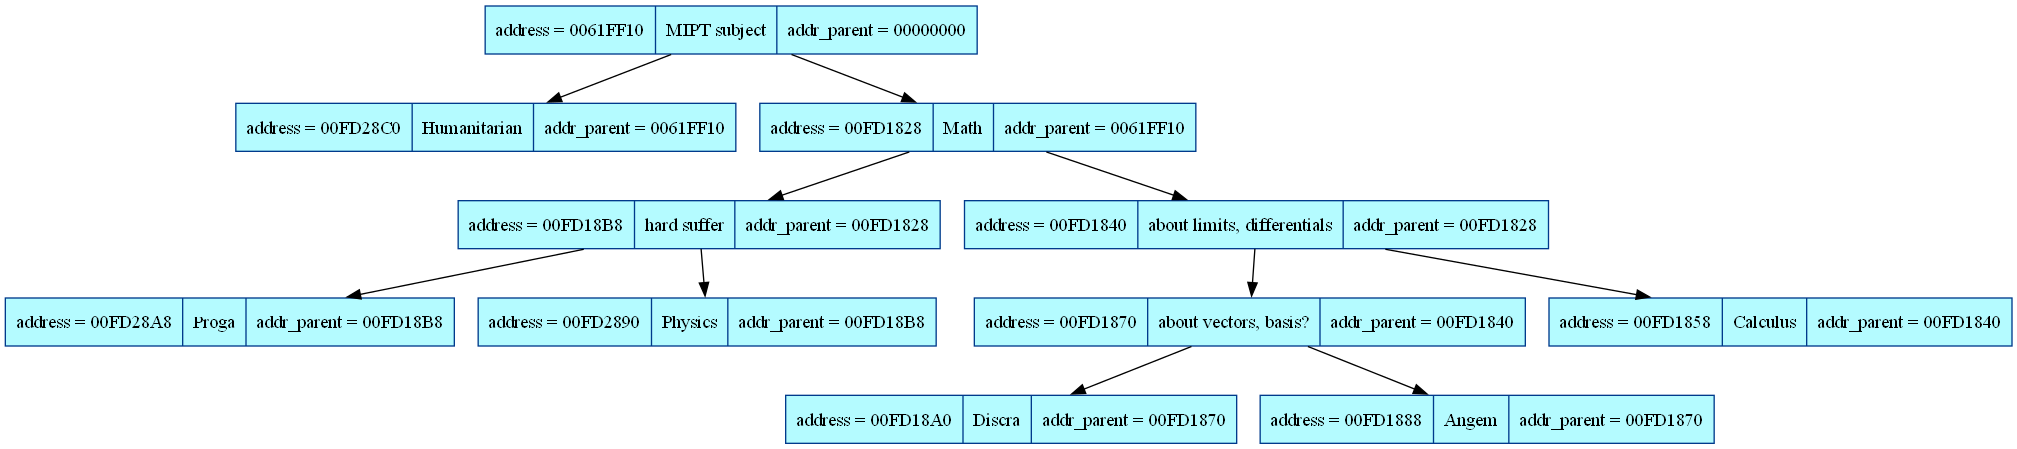
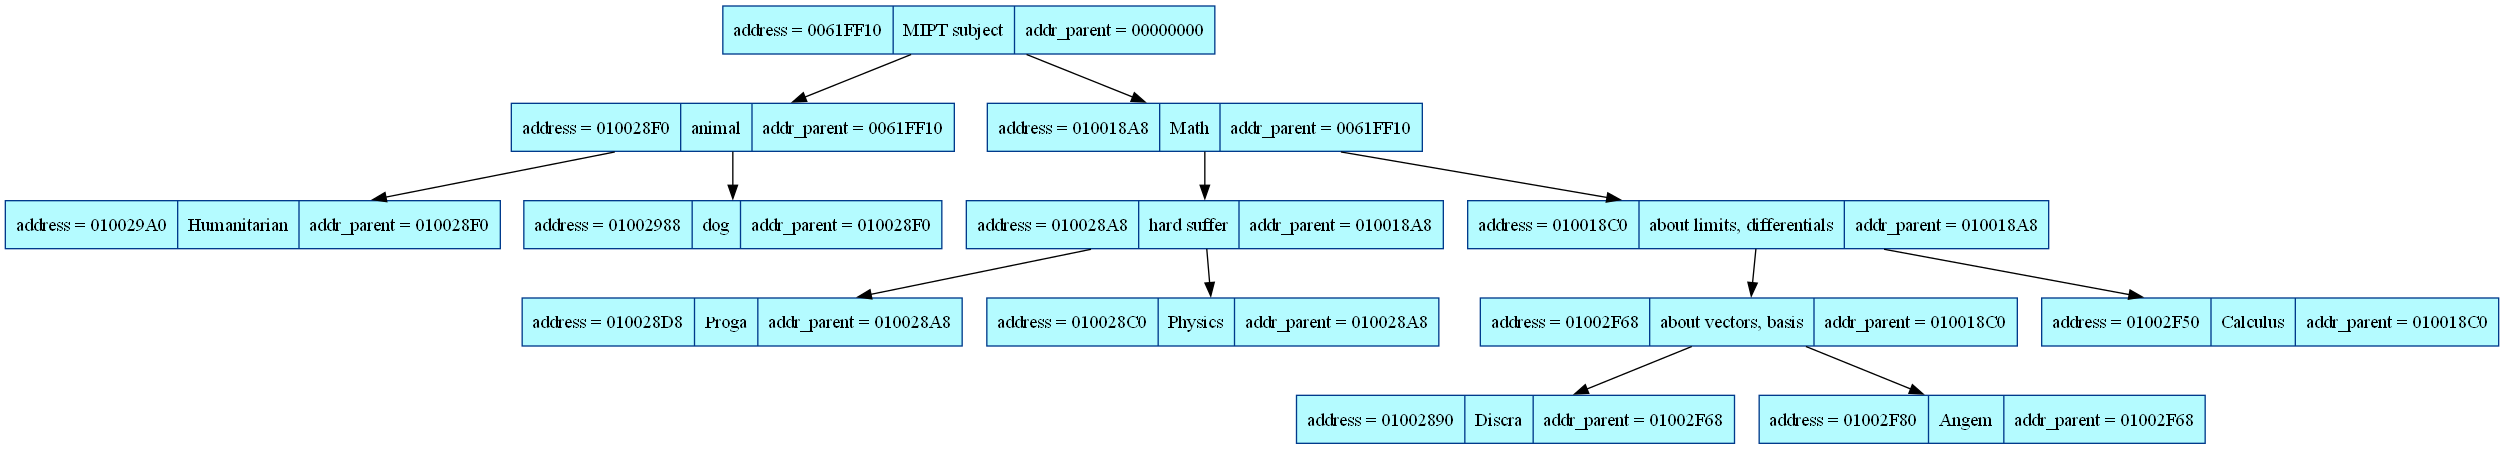
insert

diff --git a/source/akinator.cpp b/source/akinator.cpp
@@ -13,7 +13,7 @@ const int size_of_node_array = 15;
 const int max_size = 50;
 const int size_of_answer = 5;
 
-void guess(Tree *my_tree)
+int guess(Tree *my_tree)
 {
     assert(my_tree);
     Node *current_node = my_tree->root_tree;
@@ -40,14 +40,81 @@ void guess(Tree *my_tree)
                 current_node = current_node->left;
             else
             {
-                printf ("Sorry, we don't know ");
-                break;
+                printf ("Sorry, we don't know, do you what to broad my base ?\n");
+                scanf("%s", answer);
+                if(strcmp(answer, "YES") == 0)
+                {
+                    if (insert_node(current_node) != TREE_SUCCESS)
+                        return TREE_ALLOCATION_MEMORY_ERROR;
+
+                    return TREE_SUCCESS;
+                }
+                else
+                    break;
             }
 
         }
     }
 
-    return;
+    return TREE_SUCCESS;
+}
+
+int insert_node (Node *node)
+{
+
+    assert(node);
+
+    char *item = (char*)calloc(max_size, sizeof(char));
+    if (!item)
+    {
+        printf ("Allocation Error\n");
+        return TREE_ALLOCATION_MEMORY_ERROR;
+    }
+    printf ("What did you think of ?\n");
+    scanf ("%s", item);
+
+    char *dif = (char*)calloc(max_size, sizeof(char));
+    if (!dif)
+    {
+        printf ("Allocation Error\n");
+        return TREE_ALLOCATION_MEMORY_ERROR;
+    }
+
+
+    printf ("What feature does %s have, unlike %s ?\n", item, node->data);
+    scanf("%s", dif);
+
+    //fgets(item, max_size, stdin);
+    // fgets(dif, max_size, stdin);
+
+    Node *right_leaf = (Node *)calloc (1, sizeof(Node));
+
+    if (!right_leaf)
+    {
+        printf ("Allocation Error\n");
+        return TREE_ALLOCATION_MEMORY_ERROR;
+    }
+
+
+    Node *left_leaf = (Node *)calloc (1, sizeof(Node));
+
+    if (!left_leaf)
+    {
+        printf ("Allocation Error\n");
+        return TREE_ALLOCATION_MEMORY_ERROR;
+    }
+
+    node->right = right_leaf;
+    right_leaf->data = item;
+    right_leaf->parent = node;
+
+    node->left = left_leaf;
+    left_leaf->data = node->data;
+    left_leaf->parent = node;
+
+    node->data = dif;
+
+    return TREE_SUCCESS;
 }
 
 bool is_leaf(Node *node)

diff --git a/source/tree.cpp b/source/tree.cpp
@@ -90,36 +90,7 @@ int get_size_of_file (const char *name_of_file)
     return buffer.st_size;
 }
 
-void insert_node (Node *node, info_t value)
-{
 
-    assert(node);
-
-    if (value < node->data)
-    {
-        if (node->left == NULL)
-        {
-            struct Node *new_node = (Node*)calloc (1, sizeof(struct Node));
-            node->left = new_node;
-            new_node->data = value;
-        }
-        else
-            insert_node(node->left, value);
-    }
-    else
-    {
-        if (node->right == NULL)
-        {
-            struct Node *new_node = (Node *) calloc (1, sizeof(Node));
-            node->right = new_node;
-
-            new_node->data = value;
-        }
-        else
-            insert_node(node->right, value);
-    }
-
-}
 
 void print_tree (Node *node)
 {

diff --git a/source/main.cpp b/source/main.cpp
@@ -28,21 +28,30 @@ int main(const int argc, const char* argv[])
 
     import_to_tree (&my_tree, &node);
 
-    dump (&node, my_tree.pfile_dump);
+    //dump (&node, my_tree.pfile_dump);
 
     process_args(argc, argv, &flags);
 
     if (flags.is_define)
     {
         if (define (&my_tree) != TREE_SUCCESS)
+        {
+            tree_dtor(&my_tree);
             assert(0 && "Define error");
+        }
     }
 
     if (flags.is_guess)
     {
-        guess(&my_tree);
+        if (guess(&my_tree) != TREE_SUCCESS)
+        {
+            tree_dtor(&my_tree);
+            printf("problem");
+            assert(0 && "Guess error");
+        }
     }
 
+    dump (&node, my_tree.pfile_dump);
     tree_dtor(&my_tree);
 
 }

diff --git a/include/tree.h b/include/tree.h
@@ -34,13 +34,14 @@ struct Tree
     FILE *pfile_dump;
     Node *root_tree;
 };
-void insert_node (Node *node, info_t value);
+
 void print_tree (Node *node);
 int reading_tree (Tree *my_tree);
 void import_to_tree (Tree *my_tree, Node *node);
 void node_dtor (Node *node);
 int tree_ctor (Tree *my_tree, const char *name_of_file_with_tree, const char * name_of_dump_file);
 int tree_dtor (Tree *my_tree);
+
 #endif
 
 

diff --git a/include/akinator.h b/include/akinator.h
@@ -4,8 +4,9 @@
 #include "tree.h"
 
 Node* search (Node *node, const char *item);
-void guess(Tree *my_tree);
+int guess(Tree *my_tree);
 bool is_leaf(Node *node);
 int define (Tree * my_tree);
+int insert_node (Node *node);
 
 #endif
